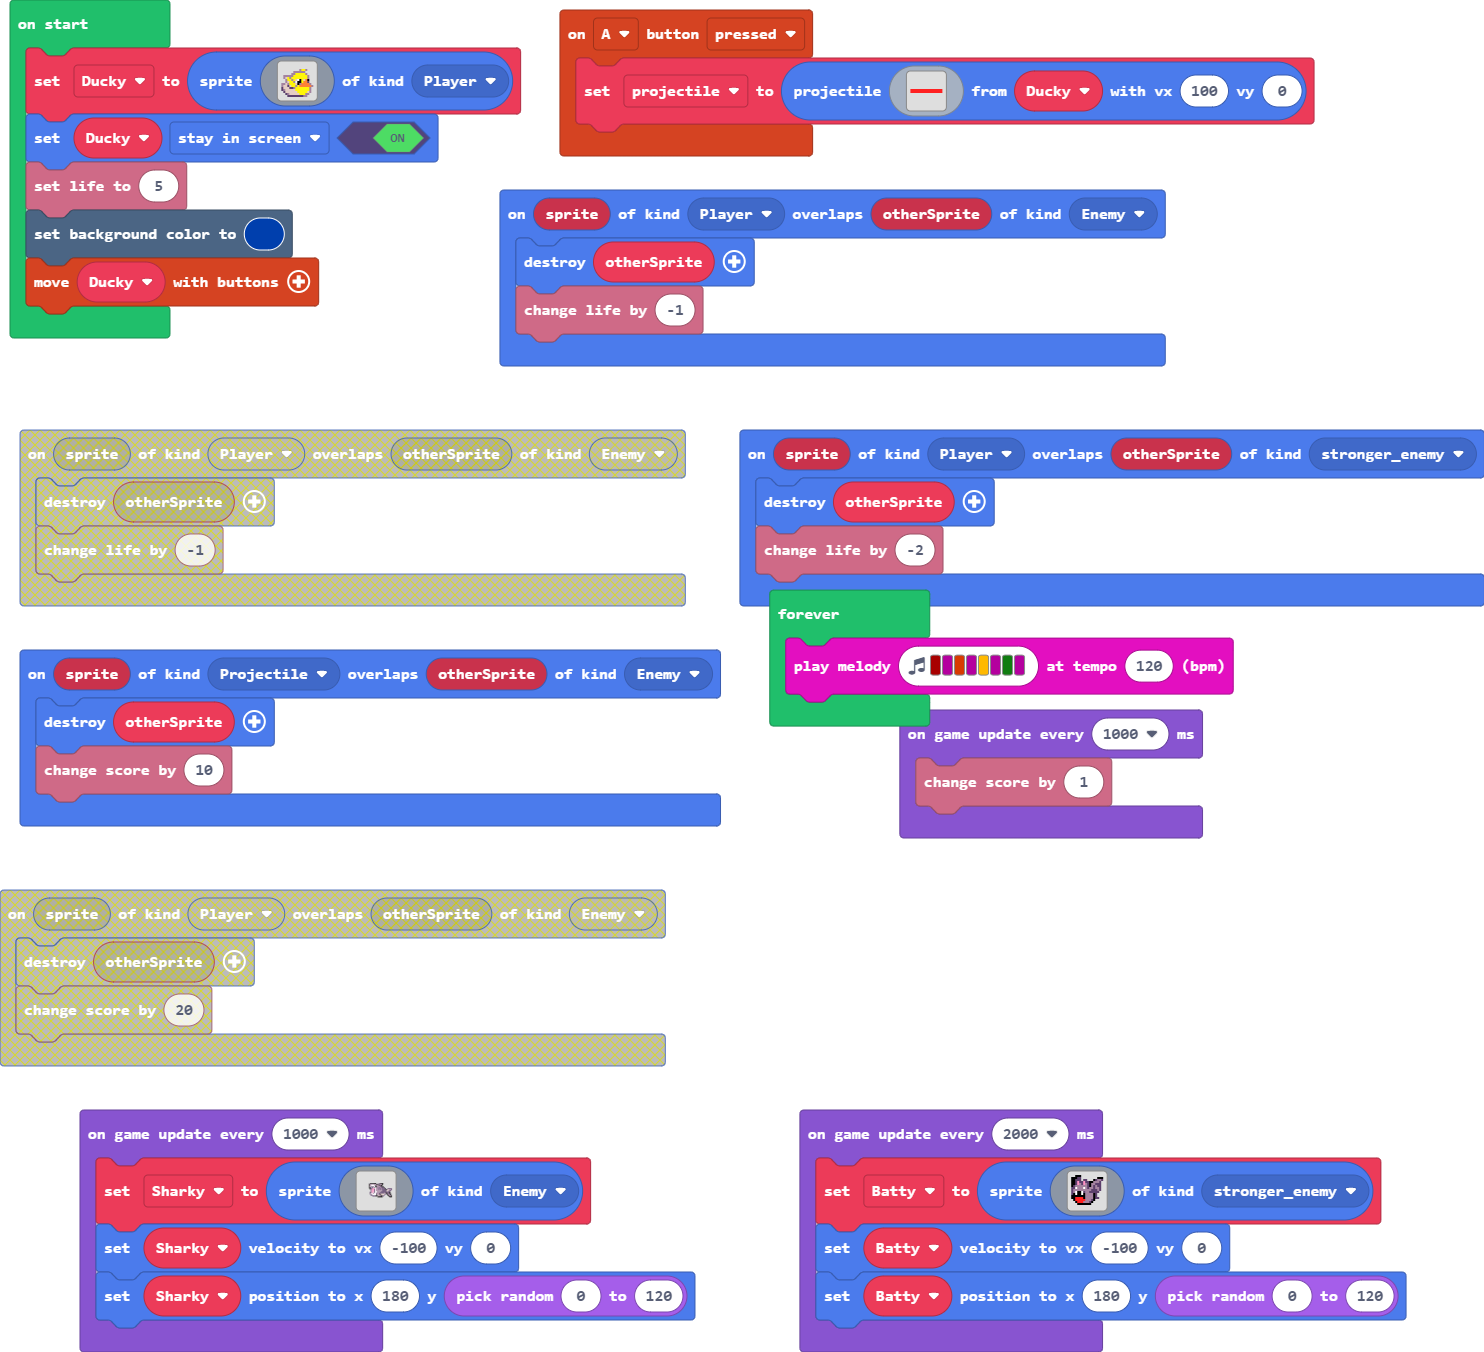
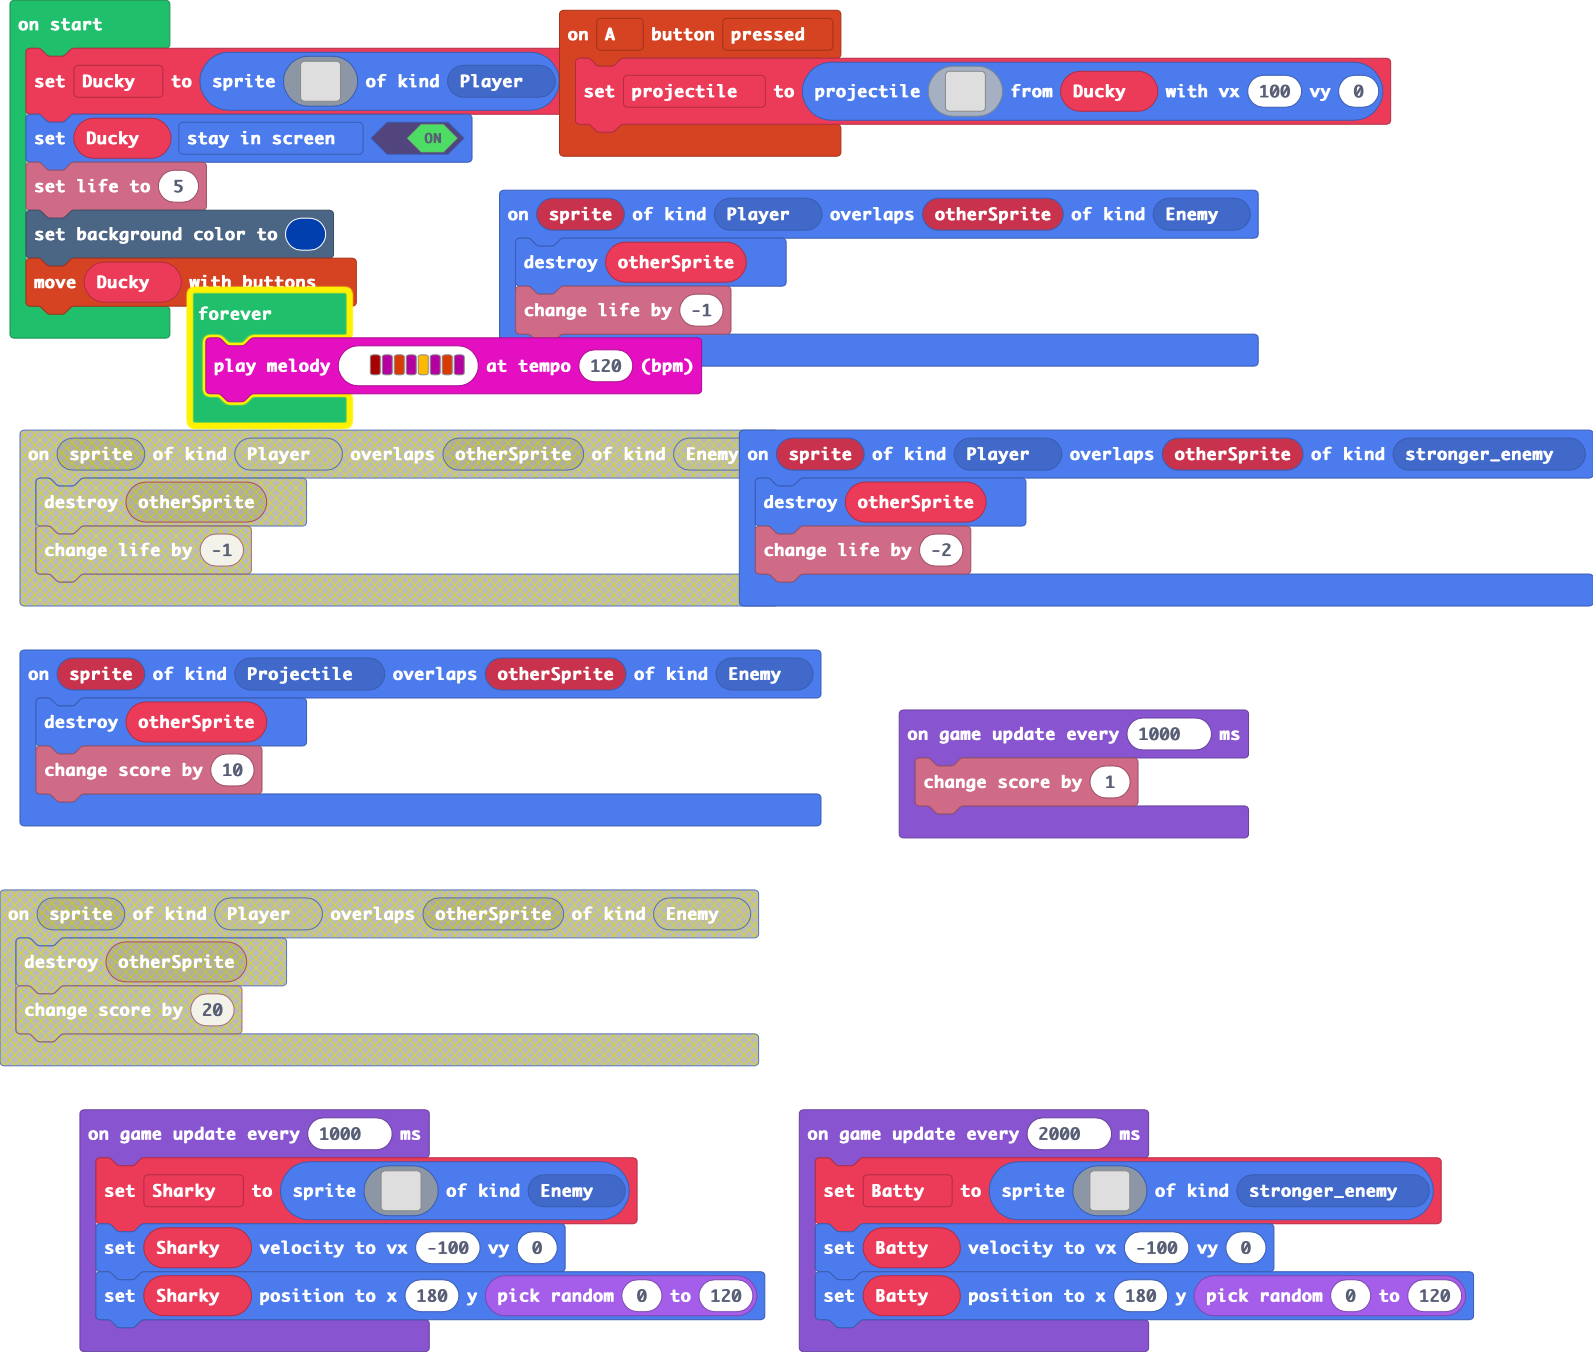
update 1.61

diff --git a/main.ts b/main.ts
@@ -107,5 +107,5 @@ game.onUpdateInterval(1000, function () {
     Sharky.setPosition(180, randint(0, 120))
 })
 forever(function () {
-    music.playMelody("C5 C B C A C G C ", 120)
+    music.playMelody("C5 C B C A C B C ", 120)
 })
